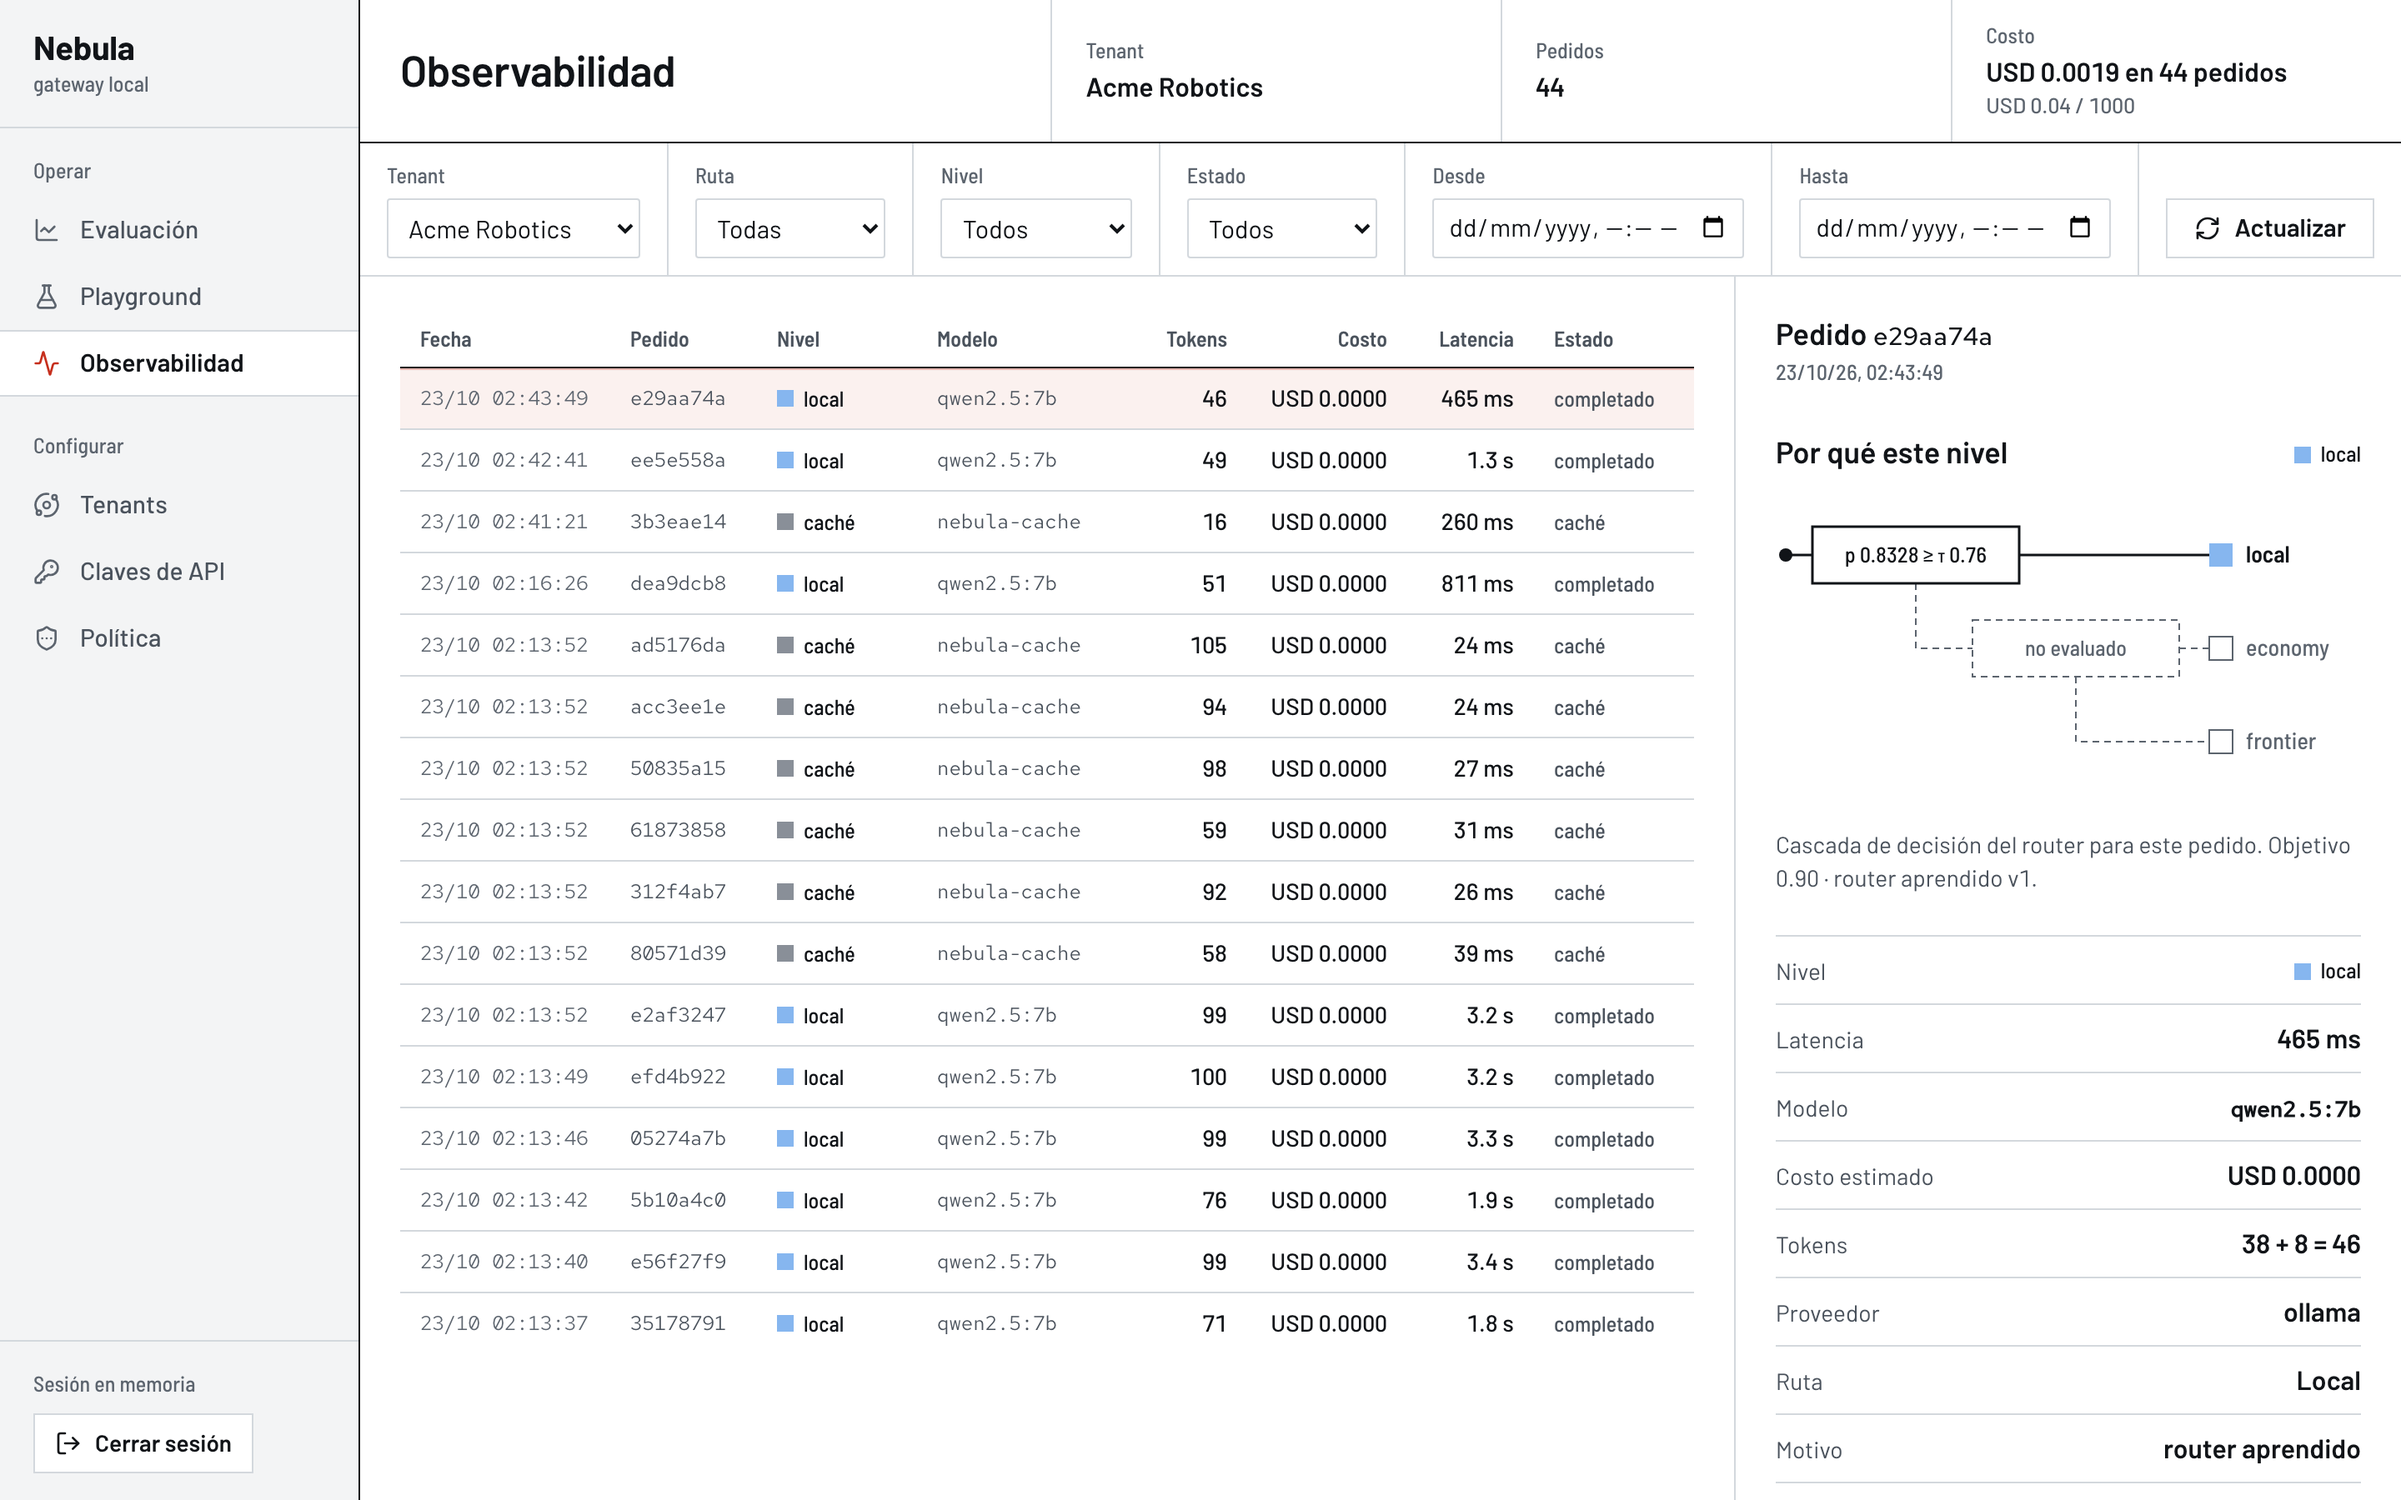
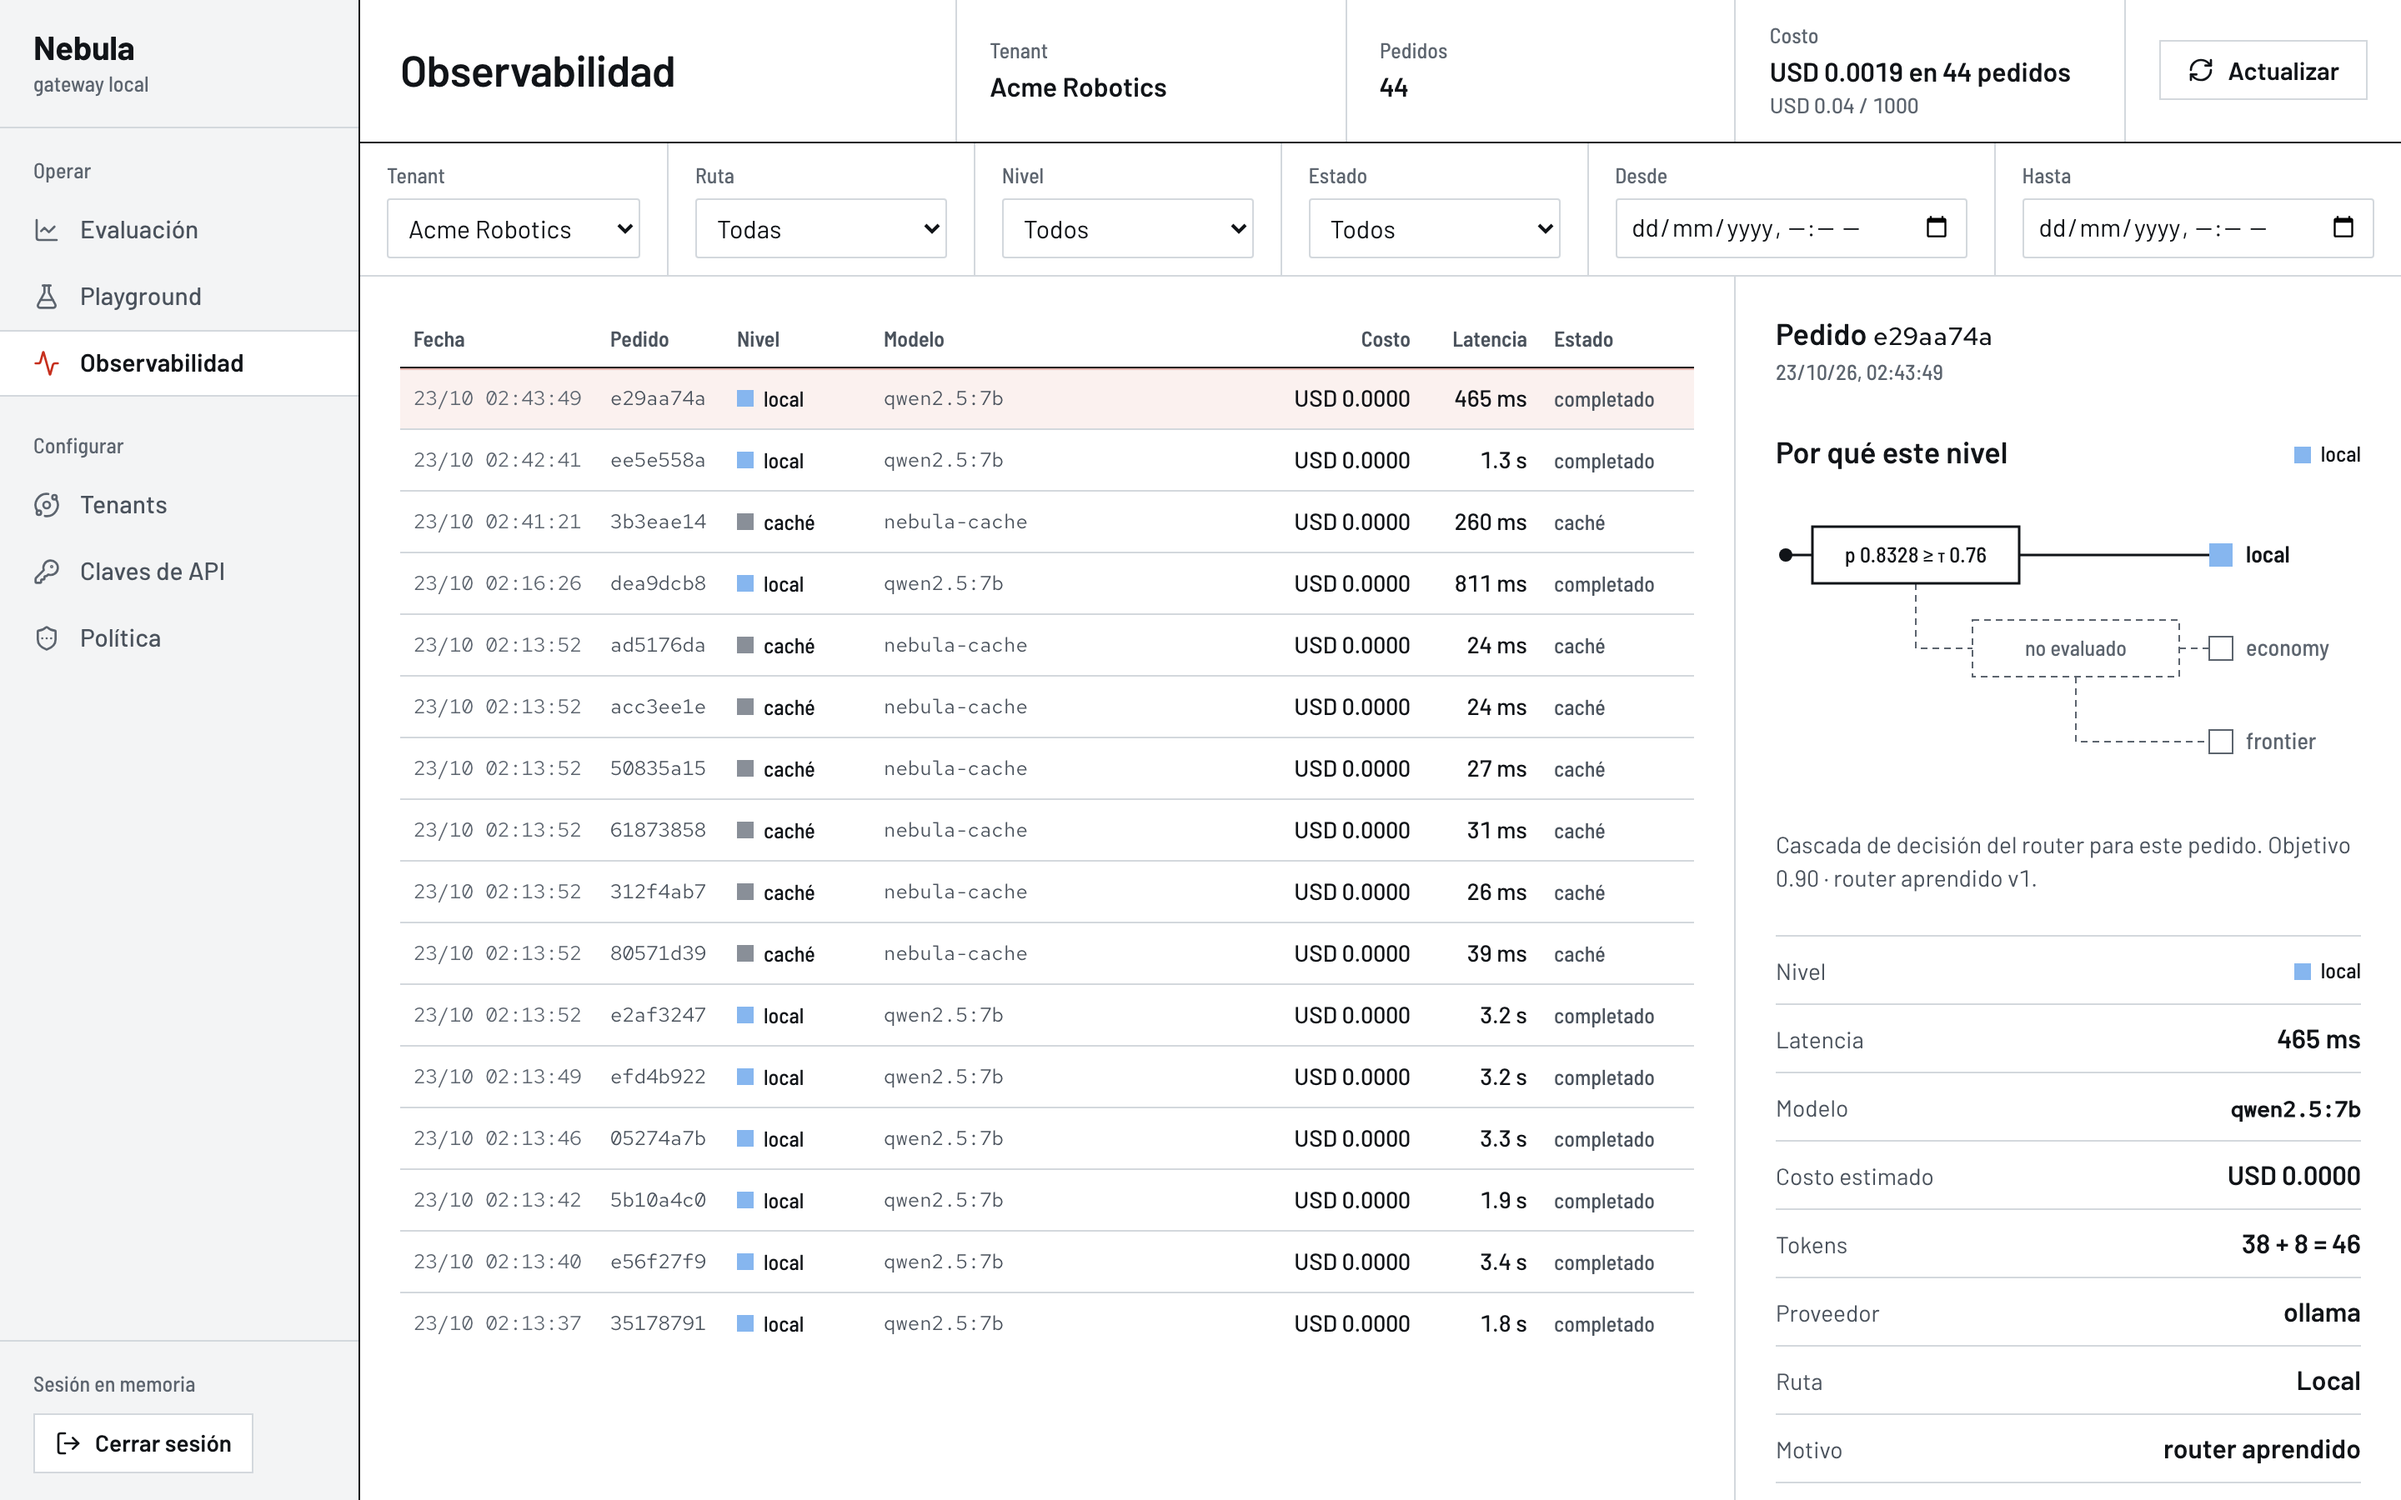
docs(tesis): figure 10.3 shows a simulation; 11.1 follows the new ledger
Recaptured at 1440 x 900, scale 2, tenant Acme Robotics (objective 0.90
applied), learned router on, mock premium provider, seeded ledger:

- 10.3 Política: a draft with objective 0.95 simulated against the 44
  recent requests ("Este borrador cambiaría 13 pedidos de la muestra.",
  tier counts actual → borrador, the seven cache hits kept). The caption
  now names that draft, since the page shows it beside the saved 0.90.
- 11.1 Observabilidad: the ledger without the Tokens column, the filters on
  one row and "Actualizar" in the header.

No capture carries an in-app "Figura N.". The date inputs still read
"dd/mm/yyyy": the gstack browser stays en-US (it ignores an es-AR
environment and does not allow a locale override).

Claude-Session: https://claude.ai/code/session_012JwPQqsnEebt9XQ2BG378E

diff --git a/docs/tfc/tesis/10-diseno.md b/docs/tfc/tesis/10-diseno.md
@@ -150,7 +150,7 @@ compara el borrador con el tráfico reciente del ledger y nada se guarda sin una
 ![Figura 10.3](figuras/consola-politica.png)
 
 **Figura 10.3.** Edición de la política del tenant en la consola: objetivo de calidad, límite de
-pedidos por minuto y vista previa del borrador.
+pedidos por minuto y vista previa de un borrador con objetivo 0.95 frente al tráfico reciente.
 
 ## 10.3 Modelo de procesos
 
